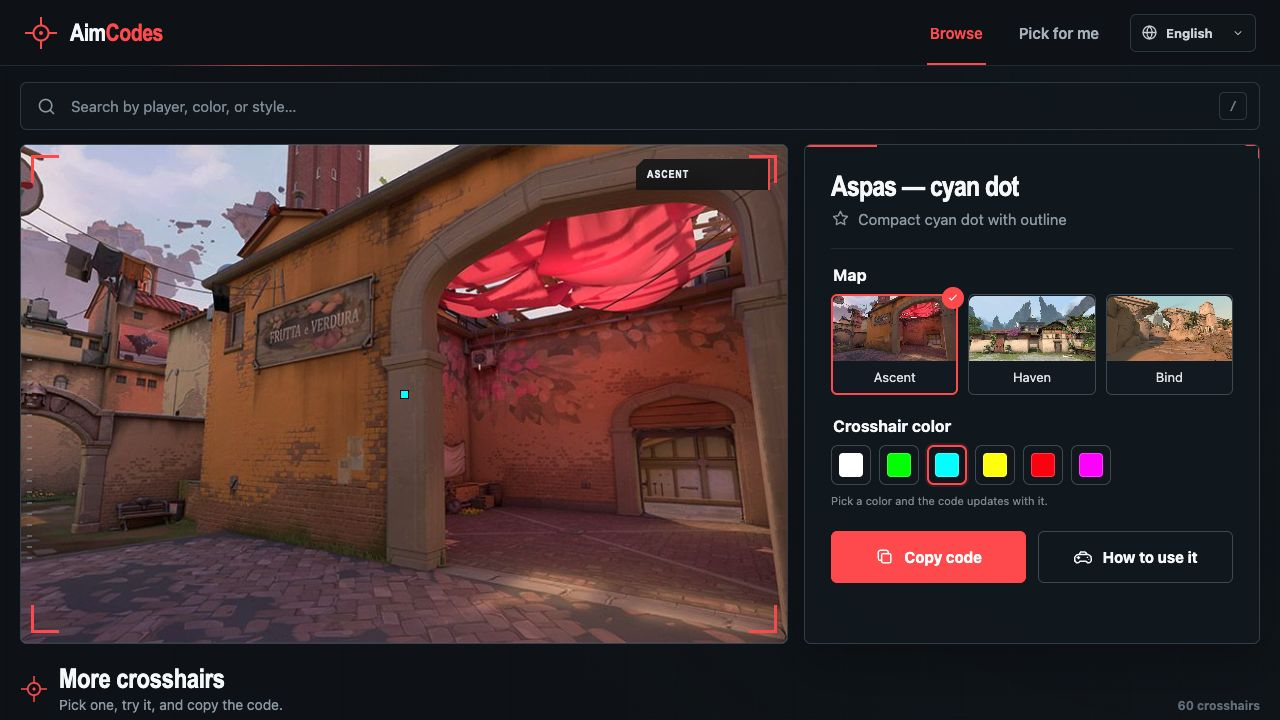
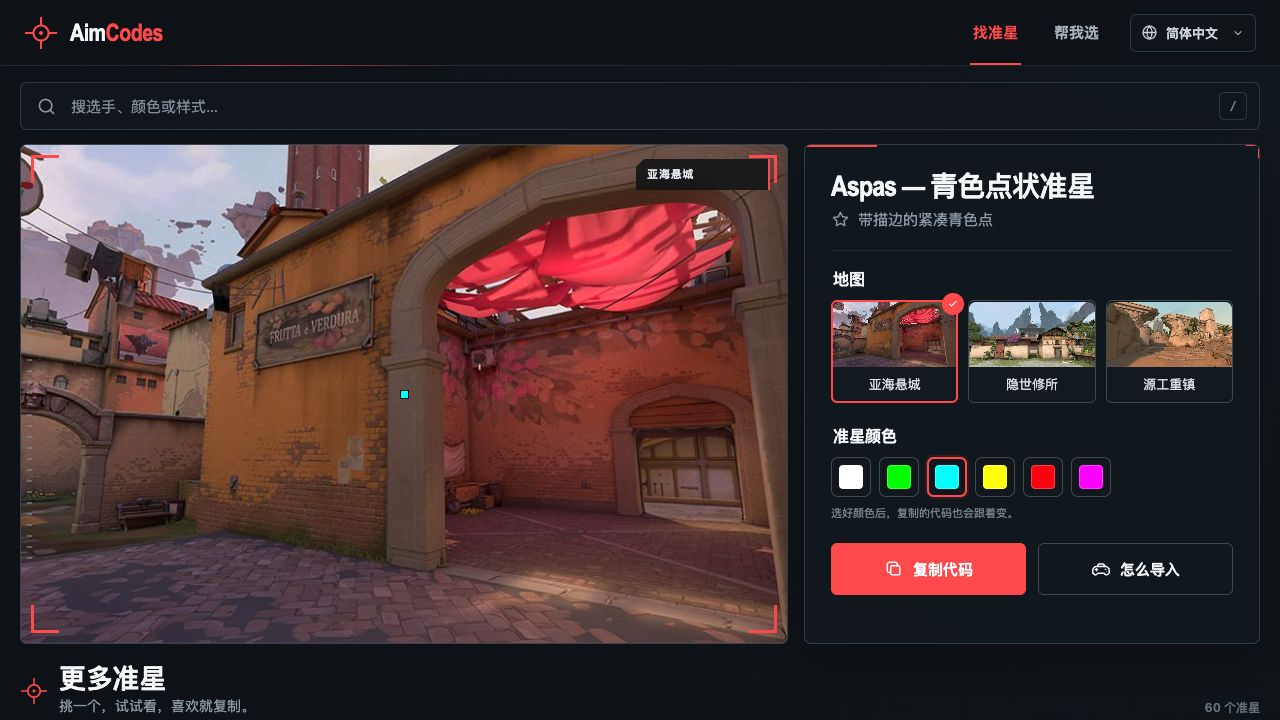
Use Chinese portfolio copy

diff --git a/README.md b/README.md
@@ -1,60 +1,83 @@
-# AimCodes
+# AimCodes｜多语种无畏契约准星工具
 
-[AimCodes](https://aimcodes.com/en/) is a multilingual VALORANT crosshair discovery tool. Players can preview working crosshair codes on familiar map scenes, recolor them, copy the final code, or take a three-round reaction test to get one recommended crosshair.
+[AimCodes](https://aimcodes.com/zh-cn/) 是一个面向全球《无畏契约》玩家的准星发现与推荐工具。玩家可以在真实地图场景中预览准星、修改颜色、复制最终代码，也可以完成三轮反应测试，让系统直接推荐一个更适合自己的准星。
 
-> 中文简介：这是一个面向全球玩家的无畏契约准星工具，提供真实场景预览、颜色修改、代码复制和基于反应速度的准星推荐。
+![AimCodes 首页](docs/aimcodes-homepage.png)
 
-![AimCodes homepage](docs/aimcodes-homepage.png)
+## 为什么做这个项目
 
-## Why this project
+多数准星数据库都在解决“收录更多准星”的问题，但用户真正面对的是另外两个问题：
 
-Most crosshair databases make players browse large, repetitive lists. AimCodes keeps the core flow short—preview, adjust, copy—and adds a lightweight reaction test for players who do not know where to start.
+1. 准星太多，不知道应该从哪一个开始试。
+2. 代码本身无法直观体现实际游戏画面中的效果。
 
-## Product highlights
+AimCodes 将核心流程压缩为“预览 → 调整 → 复制”，并增加反应测试推荐，让不想逐个筛选的玩家也能快速拿到一个首选准星。
 
-- 60 visually distinct, validated crosshair styles generated from importable profile codes
-- Live Canvas previews on Ascent, Haven, and Bind scenes
-- Six color presets that update both the preview and copied code
-- Three-round reaction test with nine VALORANT-inspired result tiers
-- One recommended crosshair available directly on the result screen
-- English, Spanish, Brazilian Portuguese, and Simplified Chinese interfaces
-- Responsive desktop and mobile experience
-- GA4 funnel tracking with 15 validated events and no raw search-query collection
+## 核心功能
 
-## Localized routing and SEO
+- 60 种经过解析和可用性验证的不同准星样式
+- 在亚海悬城、隐世修所和源工重镇场景中实时预览
+- 6 种颜色预设，预览和最终复制代码同步更新
+- 三轮反应速度测试和 9 个无畏契约风格的反应段位
+- 测试结束后只推荐一个首选准星，并可直接预览、调色和复制
+- 英语、西班牙语、巴西葡萄牙语和简体中文界面
+- 桌面端与移动端响应式适配
+- GA4 漏斗埋点，共验证 15 个关键事件，不采集用户输入的具体搜索词
 
-| Language | Route | `hreflang` |
+## 产品差异化
+
+这个项目没有把“准星数量”作为唯一竞争点，而是围绕玩家的实际决策路径进行设计：
+
+| 用户问题 | AimCodes 的解决方式 |
+|---|---|
+| 不知道选哪个准星 | 通过反应测试只推荐一个首选结果 |
+| 不知道代码在游戏里长什么样 | 在真实地图场景中直接预览 |
+| 喜欢形状但不喜欢颜色 | 修改颜色时同步生成新代码 |
+| 海外同类站点以英语为主 | 同时覆盖中文、西语和巴西葡语用户 |
+| 工具站有流量但不知道用户做了什么 | 使用 GA4 记录搜索、筛选、测试、调色和代码复制行为 |
+
+## 多语种路由与 SEO
+
+| 语言 | 路径 | `hreflang` |
 |---|---|---|
-| English | `/en/` | `en` |
-| Spanish | `/es/` | `es` |
-| Brazilian Portuguese | `/pt-br/` | `pt-BR` |
-| Simplified Chinese | `/zh-cn/` | `zh-Hans` |
+| 英语 | `/en/` | `en` |
+| 西班牙语 | `/es/` | `es` |
+| 巴西葡萄牙语 | `/pt-br/` | `pt-BR` |
+| 简体中文 | `/zh-cn/` | `zh-Hans` |
 
-The production build creates a separate HTML entry for every locale, including localized titles and descriptions, self-referencing canonicals, reciprocal `hreflang` links, Open Graph metadata, `robots.txt`, and a multilingual sitemap. Netlify redirects `/` to `/en/`, while legacy `?lang=` links are migrated in the client.
+生产构建会为每个语种生成独立 HTML 入口，并配置：
 
-## Stack
+- 本地化标题和页面描述
+- 指向自身语言页面的 canonical
+- 四语种双向 `hreflang` 和 `x-default`
+- Open Graph 分享信息
+- `robots.txt` 与多语种 sitemap
+- Netlify 根路径跳转和旧 `?lang=` 链接兼容
 
-- React 19 and Vite
-- Canvas-based crosshair rendering
-- Netlify hosting and route configuration
+## 技术栈
+
+- React 19 + Vite
+- Canvas 准星渲染
+- 原生 CSS 响应式界面
+- Netlify 托管与路由配置
 - Google Analytics 4
-- Vanilla CSS with no UI framework
+- GitHub Actions 自动验证
 
-## Run locally
+## 本地运行
 
 ```bash
 pnpm install
 pnpm dev
 ```
 
-Create and preview the production build:
+生成并预览生产版本：
 
 ```bash
 pnpm build
 pnpm preview
 ```
 
-## Validation
+## 自动验证
 
 ```bash
 pnpm lint
@@ -66,20 +89,20 @@ pnpm build
 pnpm validate:routing
 ```
 
-The validation scripts check crosshair parsing and recoloring, visible-style deduplication, recommendation coverage, translation completeness, analytics events, localized metadata, sitemap entries, and route aliases.
+验证脚本覆盖：准星代码解析与调色、重复样式识别、推荐结果完整性、四语种词条一致性、GA4 事件、语言路由、canonical、`hreflang`、robots 和 sitemap。
 
-## Project structure
+## 项目结构
 
 ```text
-src/components/       UI and Canvas components
-src/data/             crosshair and preview data
-src/i18n/             dictionaries and locale routing
-src/utils/            code parsing, analytics and recommendation logic
-scripts/              reproducible validation and route generation
-public/               public brand, SEO and preview assets
-netlify.toml          production build, redirects and security headers
+src/components/       界面与 Canvas 组件
+src/data/             准星和预览数据
+src/i18n/             四语种词典与语言路由
+src/utils/            代码解析、推荐算法和数据分析逻辑
+scripts/              可复现的构建与验证脚本
+public/               品牌、SEO 和公开素材
+netlify.toml          生产构建、跳转规则和安全响应头
 ```
 
-## Disclaimer
+## 免责声明
 
-AimCodes is an independent fan-made project and is not affiliated with or endorsed by Riot Games. VALORANT and related game assets are trademarks or property of their respective owners.
+AimCodes 是独立的玩家工具项目，与 Riot Games 不存在关联，也未获得 Riot Games 的认可或赞助。VALORANT 及相关游戏素材的商标和权利归各自权利人所有。
